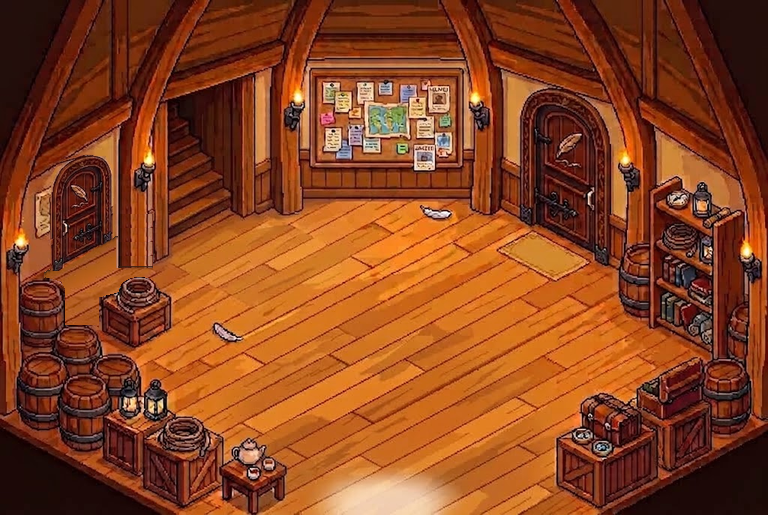
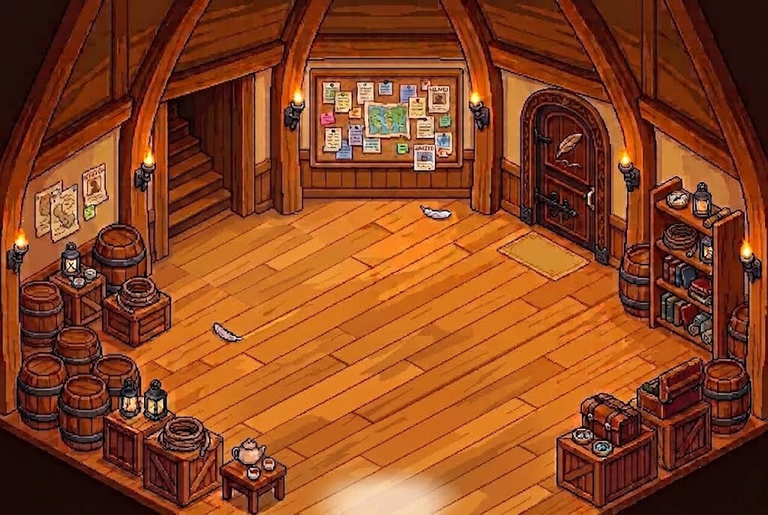
El gremio, sin la puerta nueva

Changed region(s): [[0.0625, 0.2796, 0.2188, 0.6524]]

diff --git a/client/js/hub.js b/client/js/hub.js
@@ -37,7 +37,7 @@ export const HUB = {
     exits: [
       { rect: [340, 494, 470, 515], to: 'plaza', at: { x: 384, y: 228 } },                                    // la luz de la salida
       { rect: [174, 210, 228, 226], to: 'descanso', at: { x: 372, y: 288 }, label: 'salida.descanso' },   // escalón de abajo de la escalera del hueco
-      { poly: [[68, 266], [114, 243], [116, 253], [70, 276]], to: 'trofeos', at: { x: 384, y: 470 }, label: 'salida.trofeos' },   // la puerta de la pared izquierda
+      // (la puerta a la sala de los trofeos: quitada el 16 de octubre hasta que se rehagan la puerta y la sala; ver docs/TAREAS-nocturno.md)
     ],
     npcs: [
       { id: 'chatot', x: 440, y: 206, facing: [0, 1], talk: 'chatot' },                                          // junto al tablón
